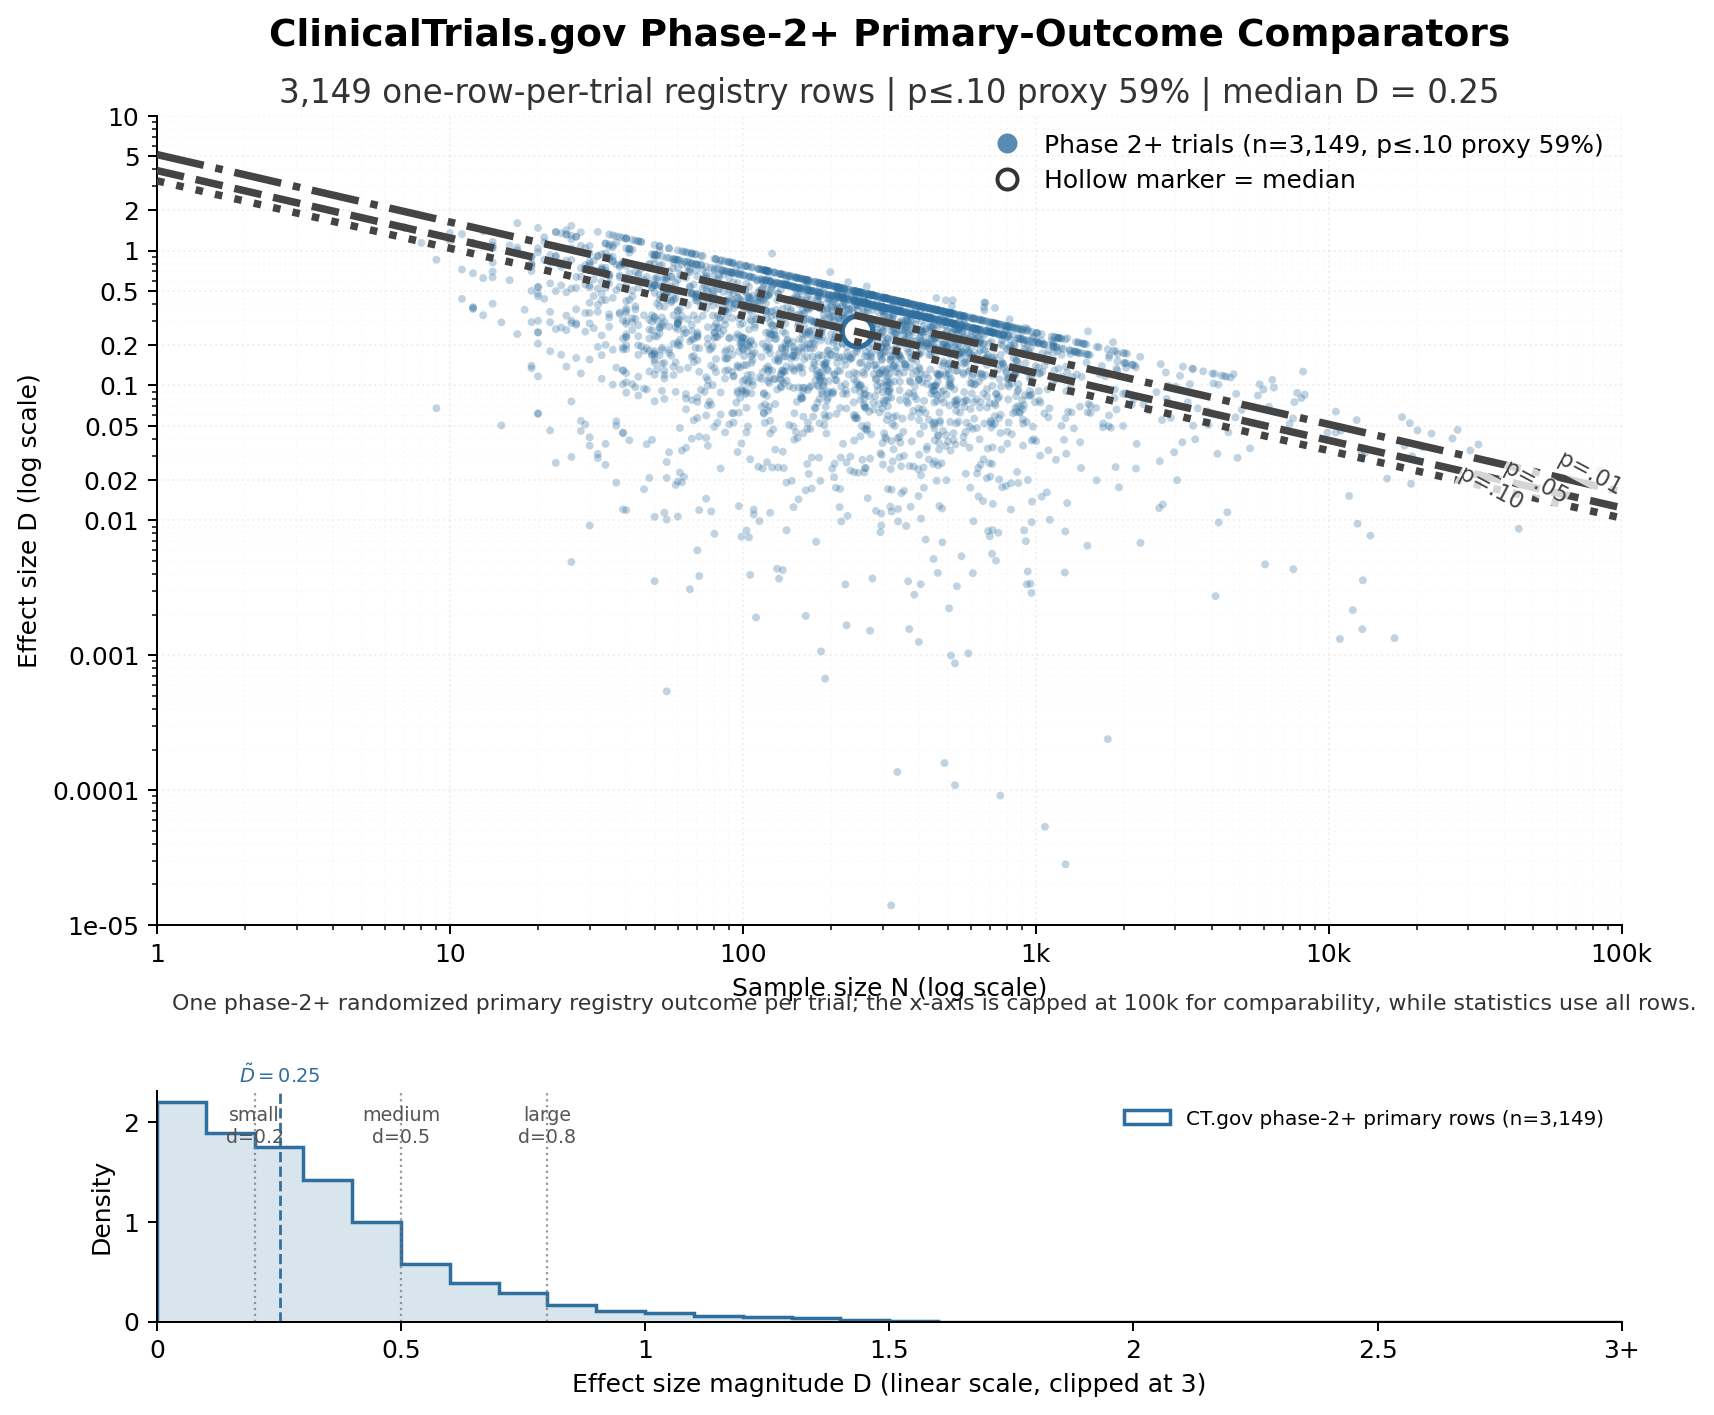
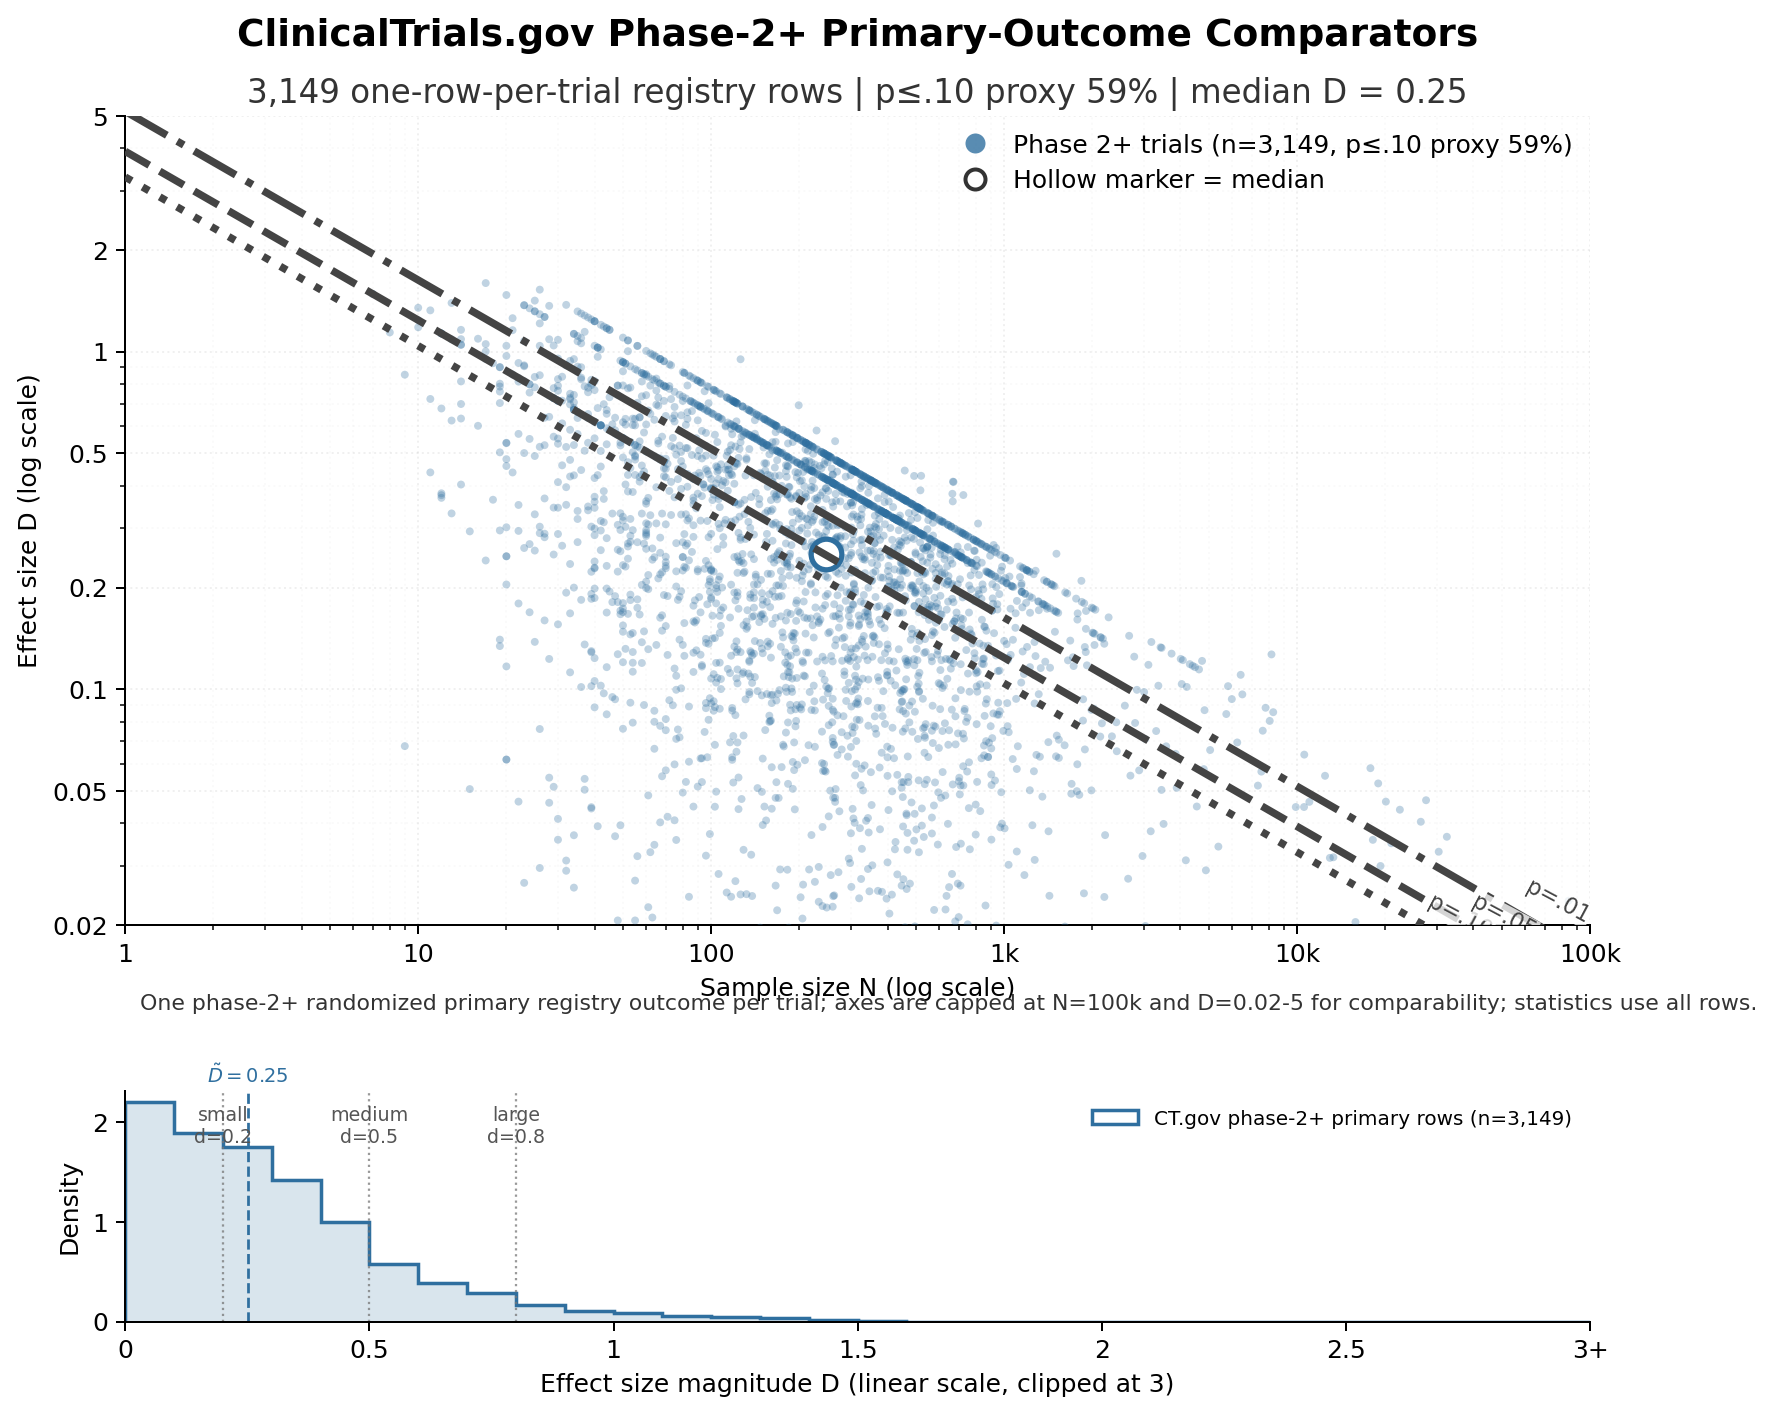
Match Plot 3 D-axis caps

diff --git a/scripts/build_paper_assets.py b/scripts/build_paper_assets.py
@@ -91,6 +91,8 @@ ALL_SOURCE_FIG = FIG_DIR / "plot4_all_source_dn_dump.png"
 
 Z_05 = 1.959963984540054
 DN_AXIS_X_CAP = 100_000.0
+DN_AXIS_Y_MIN = 0.02
+DN_AXIS_Y_MAX = 5.0
 
 
 @dataclass(frozen=True)
@@ -1676,15 +1678,9 @@ def compact_axis_label(value: float) -> str:
 
 def sidecar_log_axis_bounds(df: pd.DataFrame, x_cap: float) -> tuple[float, float, float, float]:
     x_min_data = float(df["N"].min())
-    y_min_data = float(df["D"].min())
-    y_max_data = float(df["D"].max())
     x_min = 10.0 if x_min_data >= 10 else 1.0
     x_max = x_cap
-    y_min = min(0.02, 10 ** math.floor(math.log10(max(y_min_data * 0.8, 1e-8))))
-    y_min = max(y_min, 1e-5)
-    y_max = max(5.0, 10 ** math.ceil(math.log10(y_max_data * 1.1)))
-    y_max = min(y_max, 20.0)
-    return x_min, x_max, y_min, y_max
+    return x_min, x_max, DN_AXIS_Y_MIN, DN_AXIS_Y_MAX
 
 
 def apply_general_results_axes(
@@ -2236,8 +2232,8 @@ def draw_preregistered_results(out_path: Path) -> dict[str, float | int]:
 
     x_min_plot = 10
     x_max_plot = DN_AXIS_X_CAP
-    y_min_plot = 0.005
-    y_max_plot = 3.0
+    y_min_plot = DN_AXIS_Y_MIN
+    y_max_plot = DN_AXIS_Y_MAX
     xs = np.logspace(np.log10(x_min_plot), np.log10(x_max_plot), 400)
 
     fig = plt.figure(figsize=(10.5, 9.3), dpi=180)
@@ -2326,12 +2322,12 @@ def draw_preregistered_results(out_path: Path) -> dict[str, float | int]:
     ax.set_xlim(x_min_plot, x_max_plot)
     ax.set_ylim(y_min_plot, y_max_plot)
     x_ticks = [10, 100, 1_000, 10_000, 100_000]
-    y_ticks = [0.005, 0.01, 0.02, 0.05, 0.1, 0.2, 0.5, 1, 2]
+    y_ticks = [0.02, 0.05, 0.1, 0.2, 0.5, 1, 2, 5]
     ax.xaxis.set_major_locator(FixedLocator(x_ticks))
     ax.xaxis.set_major_formatter(FixedFormatter(["10", "100", "1k", "10k", "100k"]))
     ax.xaxis.set_minor_formatter(NullFormatter())
     ax.yaxis.set_major_locator(FixedLocator(y_ticks))
-    ax.yaxis.set_major_formatter(FixedFormatter(["0.005", "0.01", "0.02", "0.05", "0.1", "0.2", "0.5", "1", "2"]))
+    ax.yaxis.set_major_formatter(FixedFormatter(["0.02", "0.05", "0.1", "0.2", "0.5", "1", "2", "5"]))
     ax.yaxis.set_minor_formatter(NullFormatter())
     ax.set_xlabel("Sample size N (result row, log scale)")
     ax.set_ylabel("Effect size magnitude D (log scale)")
@@ -2400,7 +2396,7 @@ def draw_preregistered_results(out_path: Path) -> dict[str, float | int]:
         -0.105,
         (
             "Both panels use the same preregistered confirmatory result rows; "
-            "the x-axis is capped at 100k for comparability, while statistics use all rows."
+            "axes are capped at N=100k and D=0.02-5 for comparability; statistics use all rows."
         ),
         transform=ax.transAxes,
         fontsize=8.8,
@@ -2634,7 +2630,7 @@ def draw_preregistered_sensitivity_sidecar(out_path: Path) -> dict[str, float | 
         -0.105,
         (
             "Both panels use D/N rows that fail the strict Figure 3 gate; "
-            "the x-axis is capped at 100k for comparability, while statistics use all rows."
+            "axes are capped at N=100k and D=0.02-5 for comparability; statistics use all rows."
         ),
         transform=ax.transAxes,
         fontsize=8.8,
@@ -2796,7 +2792,7 @@ def draw_ctgov_primary_randomized_sidecar(out_path: Path) -> dict[str, float | i
         -0.105,
         (
             "One phase-2+ randomized primary registry outcome per trial; "
-            "the x-axis is capped at 100k for comparability, while statistics use all rows."
+            "axes are capped at N=100k and D=0.02-5 for comparability; statistics use all rows."
         ),
         transform=ax.transAxes,
         fontsize=8.8,